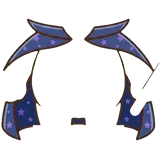
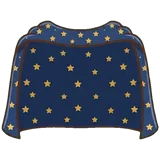
feat: star cape art with its clasp in front
Claude-Session: https://claude.ai/code/session_01TMuZkMJP4hzkW6LA5qD8Qx

diff --git a/assets-src/PROMPTS.md b/assets-src/PROMPTS.md
@@ -176,7 +176,7 @@ In the attached image keep only FRONT, exactly where it is, with the same size, 
 | `acc-star-glasses.jpg` | glasses: FRAME = yellow star-shaped glasses with a soft dark-brown outline, a thin bridge between the two stars, and two short temple arms reaching toward the sides of the head | done 2026-10-21 |
 | `acc-sunglasses.jpg` | glasses: FRAME = cool black wayfarer sunglasses: a thick glossy black frame with a slightly wider, raised top edge and lenses that are a bit narrower at the bottom, a straight bridge, and two short temple arms reaching toward the sides of the head | done 2026-10-21 (the script makes the lenses a soft see-through dark tint) |
 | `acc-dragon-wings.jpg` | back: ITEM = small soft orange baby-dragon wings on the back, visible on both sides | done 2026-10-21 (longer than before; drawn behind the body) |
-| `acc-star-cape.jpg` | a dark blue cape with stars hanging from the shoulders behind the body, visible on both sides | broken into pieces, crossed by the wand |
+| `acc-star-cape.jpg` | a dark blue cape with stars hanging from the shoulders behind the body, visible on both sides | done 2026-10-21 (with `acc-star-cape-front.jpg`: clasp and collar over the body) |
 | `acc-knit-vest.jpg` | a cozy green knitted vest on the body | backpack straps left at both sides |
 | `acc-backpack.jpg` | a small orange backpack on the back, its straps visible over the shoulders | only broken pieces of the straps |
 | `acc-lantern.jpg` | a small lantern in the right hand | a stray vertical line next to it |
